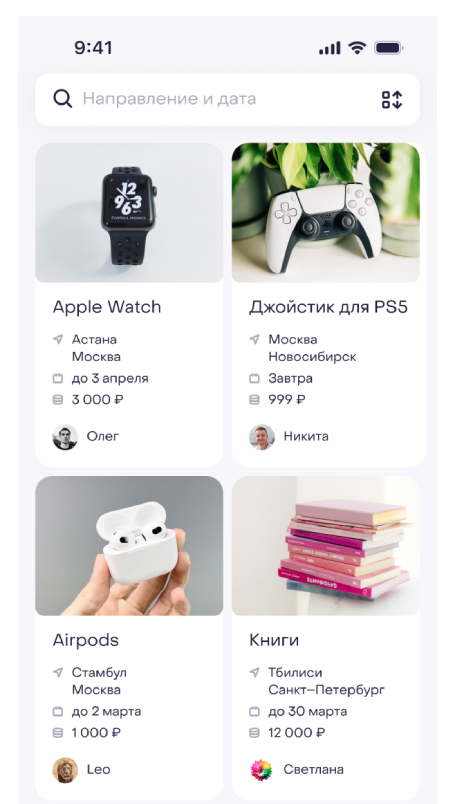
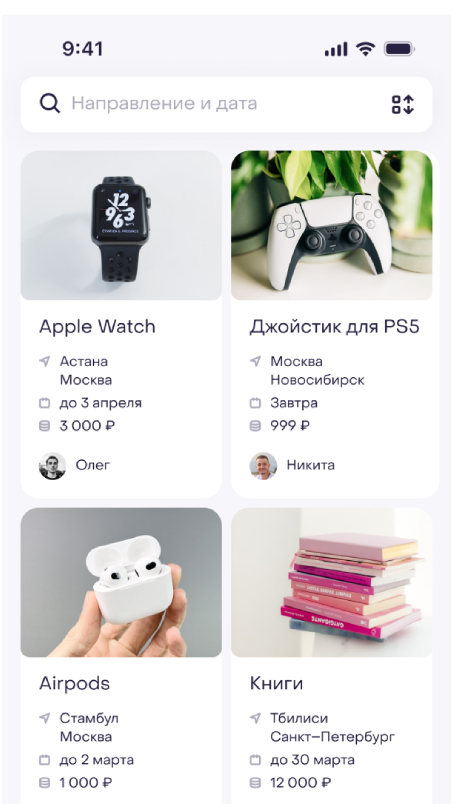
commit

Changed region(s): [[0.0308, 0.0311, 0.9538, 0.995]]

diff --git a/src/components/Carousel/index.tsx b/src/components/Carousel/index.tsx
@@ -18,12 +18,6 @@ const Carousel = () => {
   const ref2 = useRef<SwiperRef>(null);
   const isMobile = useMediaQuery("(max-width: 567px)");
 
-  useEffect(() => {
-    if (ref?.current?.swiper?.autoplay.running) {
-      ref2?.current?.swiper?.autoplay.start();
-    }
-  }, [ref?.current?.swiper?.autoplay.running]);
-
   const handleDownload = () => {
     axios
       .get("https://findcourier.ru/public/findcourier.apk", {
@@ -48,45 +42,50 @@ const Carousel = () => {
     <div className={styles.carousel}>
       <div className={styles.carousel__left}>
         <div className={styles.carousel__col}>
-          <Swiper
-            className={styles.sliderTitles}
-            ref={ref2}
-            loop
-            // autoplay={{
-            //   delay: 3000,
-            //   waitForTransition: 0,
-            //   disableOnInteraction: false,
-            // }}
-            modules={[Autoplay]}
-          >
-            <SwiperSlide>
-              <h2 className={styles.carousel__item_title}>
-                Находите подходящий груз, который вы готовы
-                <br />
-                доставить
-              </h2>
-            </SwiperSlide>
-            <SwiperSlide>
-              <h2 className={styles.carousel__item_title}>
-                Отслеживайте
-                <br />
-                новые посылки
-                <br />
-                по направлениям
-              </h2>
-            </SwiperSlide>
-            <SwiperSlide>
-              <h2 className={styles.carousel__item_title}>
-                Выбирайте надежного
-                <br />
-                курьера, который
-                <br />
-                в срок доставит
-                <br />
-                ваш груз
-              </h2>
-            </SwiperSlide>
-          </Swiper>
+          <h2 className={styles.carousel__item_title}>
+            Находите подходящий груз, который вы готовы
+            <br />
+            доставить
+          </h2>
+          {/*<Swiper*/}
+          {/*  className={styles.sliderTitles}*/}
+          {/*  ref={ref2}*/}
+          {/*  loop*/}
+          {/*  autoplay={{*/}
+          {/*    delay: 3000,*/}
+          {/*    waitForTransition: 0,*/}
+          {/*    disableOnInteraction: false,*/}
+          {/*  }}*/}
+          {/*  modules={[Autoplay]}*/}
+          {/*>*/}
+          {/*  <SwiperSlide>*/}
+          {/*    <h2 className={styles.carousel__item_title}>*/}
+          {/*      Находите подходящий груз, который вы готовы*/}
+          {/*      <br />*/}
+          {/*      доставить*/}
+          {/*    </h2>*/}
+          {/*  </SwiperSlide>*/}
+          {/*  <SwiperSlide>*/}
+          {/*    <h2 className={styles.carousel__item_title}>*/}
+          {/*      Отслеживайте*/}
+          {/*      <br />*/}
+          {/*      новые посылки*/}
+          {/*      <br />*/}
+          {/*      по направлениям*/}
+          {/*    </h2>*/}
+          {/*  </SwiperSlide>*/}
+          {/*  <SwiperSlide>*/}
+          {/*    <h2 className={styles.carousel__item_title}>*/}
+          {/*      Выбирайте надежного*/}
+          {/*      <br />*/}
+          {/*      курьера, который*/}
+          {/*      <br />*/}
+          {/*      в срок доставит*/}
+          {/*      <br />*/}
+          {/*      ваш груз*/}
+          {/*    </h2>*/}
+          {/*  </SwiperSlide>*/}
+          {/*</Swiper>*/}
           {!isMobile && <CarouselArrows onPrev={onPrev} onNext={onNext} />}
         </div>
         <div className={styles.carousel__col}>
@@ -227,10 +226,13 @@ const Carousel = () => {
       <div className={styles.carousel__right}>
         {isMobile && <CarouselArrows onPrev={onPrev} onNext={onNext} />}
 
+        <div className={styles.bg}></div>
+
         <Swiper
           ref={ref}
           className={styles.slider}
           loop
+          spaceBetween={0}
           autoplay={{
             delay: 3000,
             waitForTransition: 0,

diff --git a/src/components/Carousel/styles.module.scss b/src/components/Carousel/styles.module.scss
@@ -2,7 +2,7 @@
   //position: relative;
   display: grid;
   padding-top: 60px;
-  grid-template-columns: 1fr 300px;
+  grid-template-columns: 1fr 314px;
   column-gap: 24px;
 
   @media (max-width: 1024px) {
@@ -160,24 +160,26 @@
   border-top-left-radius: 42px;
   border-top-right-radius: 42px;
   //background-color: #fff;
+  max-width: 300px;
+  overflow: hidden;
 
   &::after {
     content: "";
     display: block;
     background-color: #fff;
-    border-top-left-radius: 50px;
-    border-top-right-radius: 50px;
+    border-top-left-radius: 52px;
+    border-top-right-radius: 52px;
     position: absolute;
-    left: 12px;
+    left: 6px;
     top: 0;
-    right: 12px;
+    right: 6px;
     bottom: 0;
   }
 
   &::before {
     background-image: url("../../../public/phone.png");
     background-repeat: no-repeat;
-    content: "";
+    //content: "";
     z-index: 100;
     position: absolute;
     display: block;
@@ -206,8 +208,8 @@
 
   &__item {
     position: relative;
-    border-top-left-radius: 50px;
-    border-top-right-radius: 50px;
+    border-top-left-radius: 62px;
+    border-top-right-radius: 62px;
     overflow: hidden;
   }
 }
@@ -224,5 +226,23 @@
   @media (max-width: 480px) {
     max-width: 320px;
     margin: 0 auto !important;
+  }
+}
+
+.bg {
+  background-image: url("../../../public/phone.png");
+  background-repeat: no-repeat;
+  background-size: cover;
+  position: absolute;
+  bottom: 0;
+  right: 0;
+  left: 0;
+  z-index: 1000;
+  max-width: 100%;
+  height: 100%;
+
+  @media (max-width: 567px) {
+    max-width: 278px;
+    margin: 0 auto;
   }
 }
